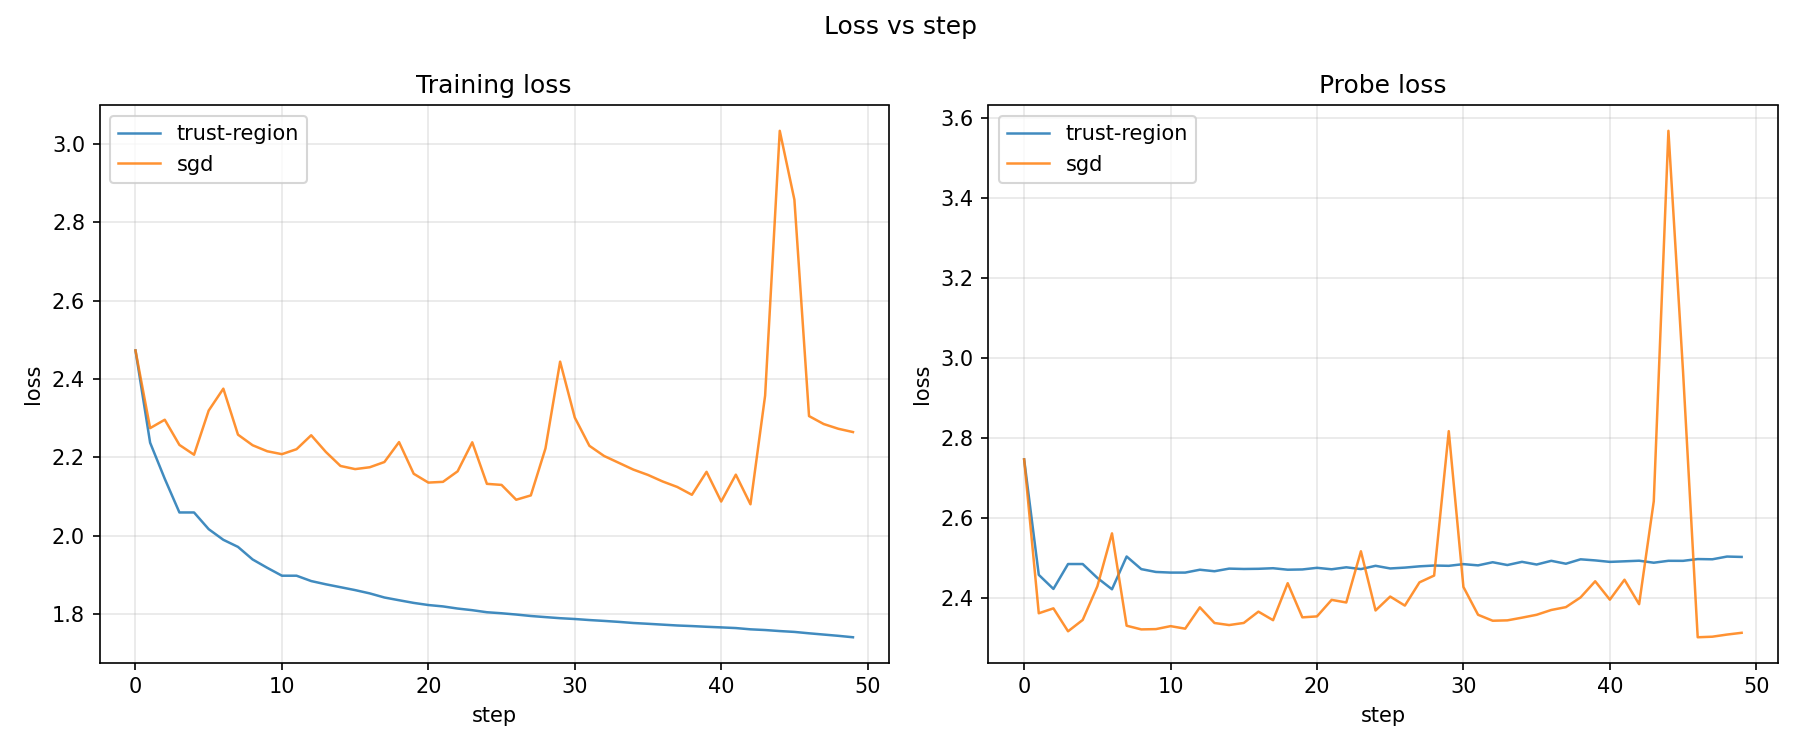
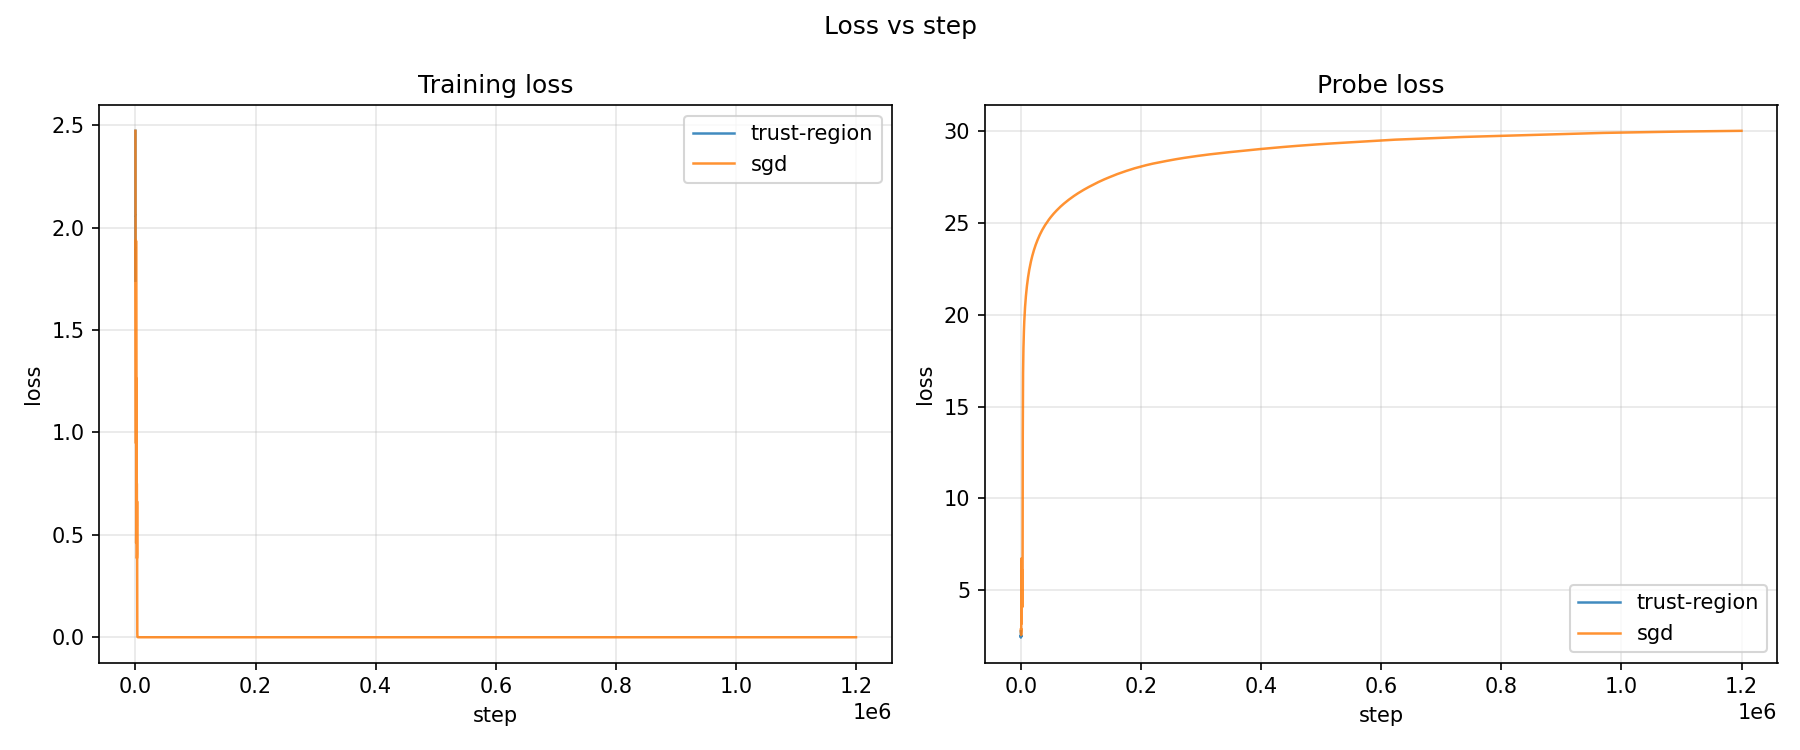
Compare SGD vs trust region at equal wall-clock budget
Rerun the fixed-batch SGD baseline for ~1000s (the wall-clock TR used),
so the loss-vs-time plot is a fair equal-budget comparison instead of
SGD finishing in 0.07s.

Findings on the fixed batch (image-8, hidden-24, 8-layer ReLU):
- Per wall-clock, SGD wins decisively on training loss: it fully
  memorizes the batch (loss -> 0, batch acc -> 1.0) within ~150s / 200k
  steps, where TR reaches only 1.74 in ~1000s / 50 steps. SGD fits ~25000
  cheap steps for every expensive TR step.
- But SGD overfits catastrophically: probe loss explodes 2.75 -> 30 as
  the weights blow up to memorize one batch. TR's trust-region constraint
  keeps probe loss flat at ~2.5 (implicit regularization).

- add --tb-log-every to write tensorboard scalars every N steps; keeps
  the 1.2M-step event file at 13 MB instead of ~700 MB
- regenerate runs/tr-vs-sgd/loss_vs_{step,time}.png against the long SGD
  run (the loss-vs-step panel is no longer a meaningful comparison at
  1.2M vs 50 steps; loss-vs-time is the fair one)

diff --git a/src/train_newton.py b/src/train_newton.py
@@ -86,10 +86,14 @@ class StepLogger:
     automatically.
     """
 
-    def __init__(self, logdir: Path, device: torch.device):
+    def __init__(self, logdir: Path, device: torch.device, tb_log_every: int = 1):
         self.writer = SummaryWriter(log_dir=str(logdir))
         self.device = device
         self.t0: float | None = None
+        # Write scalars to tensorboard only every `tb_log_every` steps. Keeps
+        # event files small on very long runs (e.g. hundreds of thousands of
+        # SGD steps) where per-step resolution is unnecessary for plotting.
+        self.tb_log_every = tb_log_every
 
     def _sync(self) -> None:
         if self.device.type == "cuda":
@@ -111,8 +115,9 @@ class StepLogger:
         t_now = time.perf_counter()
         scalars.step_seconds = t_now - t_step_start
         scalars.wall_clock_s = t_now - self.t0
-        for name, value in dataclasses.asdict(scalars).items():
-            self.writer.add_scalar(name, value, global_step=step_idx)
+        if step_idx % self.tb_log_every == 0:
+            for name, value in dataclasses.asdict(scalars).items():
+                self.writer.add_scalar(name, value, global_step=step_idx)
 
     def close(self) -> None:
         self.writer.flush()
@@ -359,7 +364,7 @@ def train(args: argparse.Namespace) -> None:
     logdir = Path(args.logdir) / run_name
     print(f"tensorboard logdir: {logdir}", file=sys.stderr)
 
-    logger = StepLogger(logdir, device=device)
+    logger = StepLogger(logdir, device=device, tb_log_every=args.tb_log_every)
     logger.writer.add_text(
         "config", "  \n".join(f"{k}: {v}" for k, v in vars(args).items())
     )
@@ -730,6 +735,13 @@ def parse_args() -> argparse.Namespace:
         "tricked by noise-floor descent.",
     )
     p.add_argument("--cpu", action="store_true")
+    p.add_argument(
+        "--tb-log-every",
+        type=int,
+        default=1,
+        help="Write tensorboard scalars every N steps. Use >1 on very long "
+        "runs to keep event files small.",
+    )
     # Trust-region flags
     p.add_argument(
         "--delta-init",